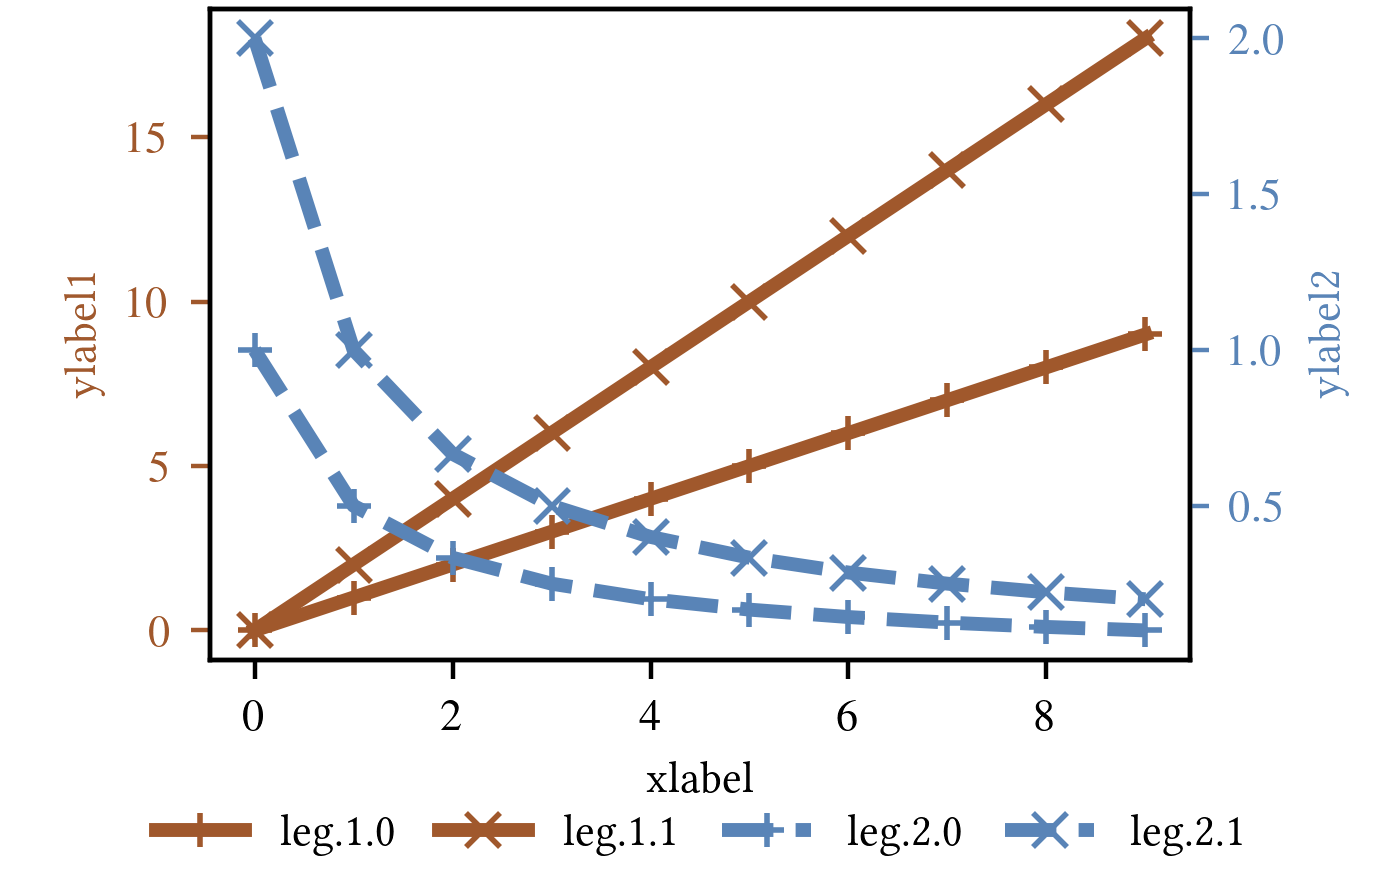
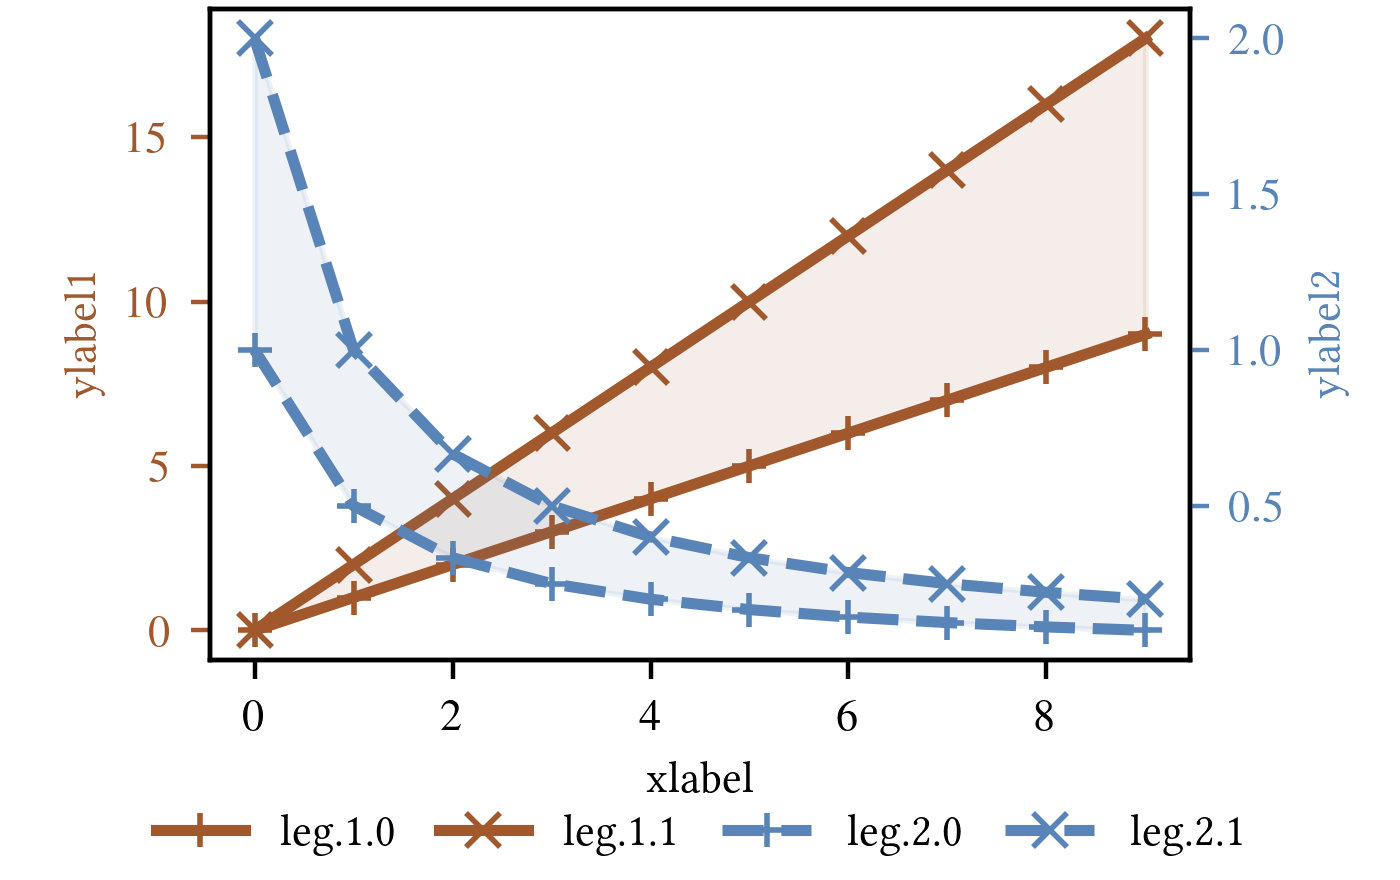
update fig1 and fig4

diff --git a/fig1.py b/fig1.py
@@ -6,7 +6,7 @@ import matplotlib as mpl
 if __name__ == '__main__':
     # plot for energy
     style.use_ieee_style()
-    # mpl.rc('text', usetex=True)
+    # mpl.rc('text', usetex=true)
     # style.use_google_style_colors()
     
     fig, ax1 = plt.subplots()
@@ -19,13 +19,21 @@ if __name__ == '__main__':
     ax2 = ax1.twinx()
     ax2.set_ylabel("ylabel2")
     n = 10
-    lw = 2.5
+    lw = 2.0
     color1 = style.g_brown_color
     color2 = style.g_blue_color
+    y_dict = {}
     for i in range(2):
         marker = ['+', 'x'][i]
-        ax1.plot([(i+1)*x for x in range(n)],f'-{marker}',label=f'leg.1.{i}', lw=lw, color=color1)
-        ax2.plot([(i+1)/(x+1) for x in range(n)],f'--{marker}',label=f'leg.2.{i}', lw=lw, color=color2)
+
+        y_dict[(i,1)] = [(i+1)*x for x in range(n)]
+        ax1.plot(y_dict[(i,1)],f'-{marker}',label=f'leg.1.{i}', lw=lw, color=color1)
+
+        y_dict[(i,2)] = [(i+1)/(x+1) for x in range(n)]
+        ax2.plot(y_dict[(i,2)],f'--{marker}',label=f'leg.2.{i}', lw=lw, color=color2)
+
+    ax1.fill_between(range(n), y_dict[(0,1)], y_dict[(1,1)], color=color1, alpha=0.1)
+    ax2.fill_between(range(n), y_dict[(0,2)], y_dict[(1,2)], color=color2, alpha=0.1)
 
     ax1.yaxis.label.set_color(color1)
     ax1.tick_params(colors=color1, axis="y")

diff --git a/fig4.py b/fig4.py
@@ -40,7 +40,7 @@ def plot_broken_step():
         rate_limit_vec = Y_mat[:,m]
         ax = axs[m]
         for ax in axs[m,:]:
-            ax.step(x, rate_limit_vec, lw=2.5, color=style.g_blue_color)
+            ax.step(x, rate_limit_vec, lw=2.0, color=style.g_blue_color)
             # ax.grid(ls="--")
         axs[m,0].set_xlim(1,break_line-0.5)
         axs[m,1].set_xlim(T-break_line+0.5,T)

diff --git a/fig5.py b/fig5.py
@@ -1,3 +1,15 @@
 """
 barplot
 """
+
+import matplotlib.pyplot as plt
+import style
+import matplotlib as mpl
+
+if __name__ == '__main__':
+    # plot for energy
+    style.use_ieee_style()
+    # mpl.rc('text', usetex=true)
+    # style.use_google_style_colors()
+    
+    fig, ax1 = plt.subplots()
